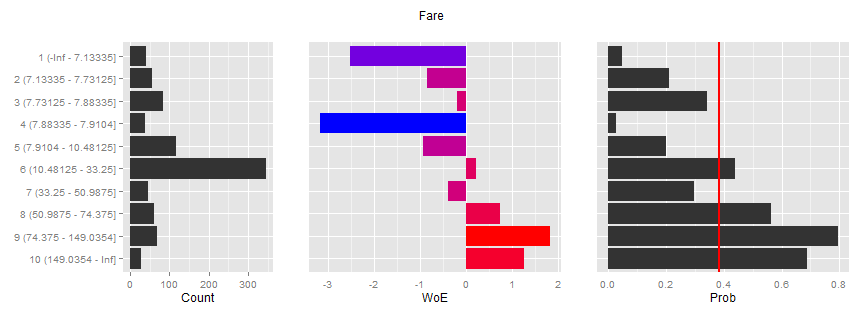
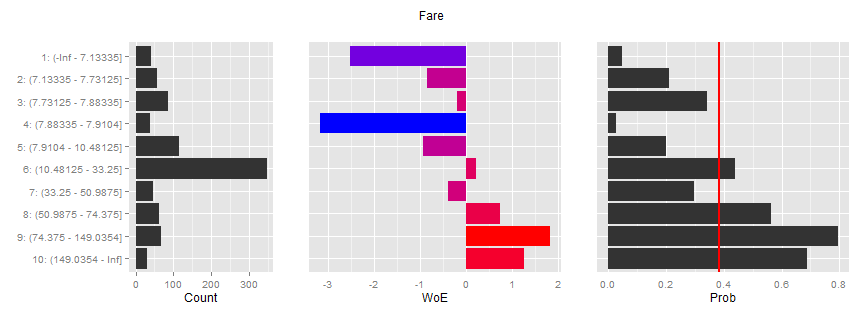
updated readme plots

diff --git a/README.md b/README.md
@@ -1,18 +1,3 @@
----
-title: "binnr documentation"
-output:
-  md_document:
-    toc: true
-    toc_depth: 2
-    variant: markdown_github
----
-
-<!-- README.md is generated from README.Rmd. Please edit that file -->
-
-
-
-
-
 ## What is `binner`?
 `binnr` is a package that creates, manages, and applies simple binning
 transformations.
@@ -60,21 +45,21 @@ variable and pressing `<enter>` is to display a WoE table:
 
 ```r
 bins$Age
-IV: 0.211 | Variable: Age
----------------------------------------------------------------
-                   #0  #1   W%0   W%1    W%  P(1)    WoE      IV
-1 (-Inf - 6.5]     14  33 0.033 0.114 0.066 0.702  1.237 0.09994
-2 (6.5 - 17.5]     38  28 0.090 0.097 0.092 0.424  0.074 0.00052
-3 (17.5 - 21.5]    65  26 0.153 0.090 0.127 0.286 -0.536 0.03414
-4 (21.5 - 30.75]  128  79 0.302 0.272 0.290 0.382 -0.103 0.00303
-5 (30.75 - 34.75]  38  30 0.090 0.103 0.095 0.441  0.143 0.00198
-6 (34.75 - 36.25]  18  22 0.042 0.076 0.056 0.550  0.581 0.01939
-7 (36.25 - 42.5]   41  25 0.097 0.086 0.092 0.379 -0.115 0.00120
-8 (42.5 - 47.5]    30  10 0.071 0.034 0.056 0.250 -0.719 0.02607
-9 (47.5 - 56.5]    27  27 0.064 0.093 0.076 0.500  0.380 0.01118
-10 (56.5 - Inf]    25  10 0.059 0.034 0.049 0.286 -0.536 0.01313
-Missing           125  52    NA    NA    NA 0.294  0.000 0.00000
-Total             549 342 1.000 1.000 1.000 0.384  0.000 0.21059
+
+IV: 0.21059 | Variable: Age
+                     #0  #1   W%0   W%1    W%  P(1)    WoE      IV
+ 1: (-Inf - 6.5]     14  33 0.033 0.114 0.066 0.702  1.237 0.09994
+ 2: (6.5 - 17.5]     38  28 0.090 0.097 0.092 0.424  0.074 0.00052
+ 3: (17.5 - 21.5]    65  26 0.153 0.090 0.127 0.286 -0.536 0.03414
+ 4: (21.5 - 30.75]  128  79 0.302 0.272 0.290 0.382 -0.103 0.00303
+ 5: (30.75 - 34.75]  38  30 0.090 0.103 0.095 0.441  0.143 0.00198
+ 6: (34.75 - 36.25]  18  22 0.042 0.076 0.056 0.550  0.581 0.01939
+ 7: (36.25 - 42.5]   41  25 0.097 0.086 0.092 0.379 -0.115 0.00120
+ 8: (42.5 - 47.5]    30  10 0.071 0.034 0.056 0.250 -0.719 0.02607
+ 9: (47.5 - 56.5]    27  27 0.064 0.093 0.076 0.500  0.380 0.01118
+10: (56.5 - Inf]     25  10 0.059 0.034 0.049 0.286 -0.536 0.01313
+Missing             125  52    NA    NA    NA 0.294  0.000 0.00000
+Total               549 342 1.000 1.000 1.000 0.384  0.000 0.21059
 ```
 
 But it can also be plotted by calling the `plot` function on the binned variable:
@@ -275,15 +260,15 @@ first row.
 
 ```r
 bins$Embarked
-IV: Inf | Variable: Embarked
----------------------------------------------------------------
+
+IV: 0.12237 | Variable: Embarked
          #0  #1   W%0   W%1    W%  P(1)    WoE      IV
-1         0   2 0.000 0.006 0.002 1.000    Inf     Inf
-2 C      75  93 0.137 0.272 0.189 0.554  0.688 0.09315
-3 Q      47  30 0.086 0.088 0.086 0.390  0.024 0.00005
-4 S     427 217 0.778 0.635 0.723 0.337 -0.204 0.02917
+ 1:       0   2 0.000 0.006 0.002 1.000    Inf     Inf
+ 2: C    75  93 0.137 0.272 0.189 0.554  0.688 0.09315
+ 3: Q    47  30 0.086 0.088 0.086 0.390  0.024 0.00005
+ 4: S   427 217 0.778 0.635 0.723 0.337 -0.204 0.02917
 Missing   0   0    NA    NA    NA   NaN  0.000 0.00000
-Total   549 342 1.000 1.000 1.000 0.384  0.000     Inf
+Total   549 342 1.000 1.000 1.000 0.384  0.000 0.12237
 ```
 
 We can neutralize this level effectively removing its influence:
@@ -291,15 +276,7 @@ We can neutralize this level effectively removing its influence:
 
 ```r
 bins$Embarked != 1
-IV: 0.123 | Variable: Embarked
----------------------------------------------------------------
-         #0  #1   W%0   W%1    W%  P(1)    WoE      IV
-1         0   0 0.000 0.000 0.000   NaN    NaN     NaN
-2 C      75  93 0.137 0.274 0.189 0.554  0.694 0.09506
-3 Q      47  30 0.086 0.088 0.087 0.390  0.030 0.00008
-4 S     427 217 0.778 0.638 0.724 0.337 -0.198 0.02759
-Missing   0   0    NA    NA    NA   NaN  0.000 0.00000
-Total   549 340 1.000 1.000 1.000 0.382  0.000 0.12273
+Error in `row.names<-.data.frame`(`*tmp*`, value = value): invalid 'row.names' length
 ```
 
 ## Modeling with `binnr`
@@ -339,13 +316,13 @@ corresponding variable. To understand what has happened, we can print a table:
 Here is the WoE table for the variable `Sex`:
 
 ```
-IV: 1.342 | Variable: Sex
----------------------------------------------------------------
-          #0  #1   W%0   W%1    W%  P(1)    WoE      IV
-1 female  81 233 0.148 0.681 0.352 0.742  1.530 0.81657
-2 male   468 109 0.852 0.319 0.648 0.189 -0.984 0.52512
-Missing    0   0    NA    NA    NA   NaN  0.000 0.00000
-Total    549 342 1.000 1.000 1.000 0.384  0.000 1.34168
+
+IV: 1.34168 | Variable: Sex
+            #0  #1   W%0   W%1    W%  P(1)    WoE      IV
+ 1: female  81 233 0.148 0.681 0.352 0.742  1.530 0.81657
+ 2: male   468 109 0.852 0.319 0.648 0.189 -0.984 0.52512
+Missing      0   0    NA    NA    NA   NaN  0.000 0.00000
+Total      549 342 1.000 1.000 1.000 0.384  0.000 1.34168
 ```
 
 And here is the raw variable crossed with the transformed variable:
@@ -375,6 +352,15 @@ prevent any "flips" from occuring in our final model.
 
 And here is the raw variable crossed with the transformed variable:
 
+```
+Warning: package 'glmnet' was built under R version 3.2.1
+Loading required package: Matrix
+Loading required package: foreach
+foreach: simple, scalable parallel programming from Revolution Analytics
+Use Revolution R for scalability, fault tolerance and more.
+http://www.revolutionanalytics.com
+Loaded glmnet 2.0-2
+```
 
 
 ```r
@@ -397,14 +383,14 @@ to find the optimal coefficients:
 coef(fit, s="lambda.min")
 8 x 1 sparse Matrix of class "dgCMatrix"
                      1
-(Intercept) -0.4727612
-Pclass       0.9551438
-Sex          0.9781791
-Age          1.4504149
-SibSp        0.4606033
+(Intercept) -0.4717027
+Pclass       0.9412971
+Sex          0.9694168
+Age          1.4137839
+SibSp        0.4451863
 Parch        .        
-Fare         0.2561144
-Embarked     0.5601308
+Fare         0.2538829
+Embarked     0.5406737
 ```
 
 
